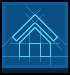
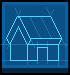
Add support for roof building materials, with one ugly, placeholder thatched roof material.

diff --git a/source/stonehearth_data/mods/stonehearth/ui/game/modes/build_mode/building_designer_2/building_designer_2.js b/source/stonehearth_data/mods/stonehearth/ui/game/modes/build_mode/building_designer_2/building_designer_2.js
@@ -63,7 +63,9 @@ App.StonehearthBuildingDesignerTools = App.View.extend({
       {
          category: 'Wooden Materials',
          items: [
-         ]         
+            { name: 'Wooden Roof',    portrait: '/stonehearth/entities/build/roof/wooden_peaked_roof/wooden_peaked_roof.png', brush: 'stonehearth:wooden_peaked_roof' },
+            { name: 'Thatch Roof',    portrait: '/stonehearth/entities/build/roof/thatch_peaked_roof/thatch_peaked_roof.png', brush: 'stonehearth:thatch_peaked_roof' },
+      ]
       }
    ],
 
@@ -167,6 +169,7 @@ App.StonehearthBuildingDesignerTools = App.View.extend({
       // build material palettes
       this.$('#floorToolTab').append(this._buildMaterialPalette(this.floorPatterns, 'floorMaterial'));
       this.$('#wallToolTab').append(this._buildMaterialPalette(this.wallPatterns, 'wallMaterial'));
+      this.$('.roofMaterialsContainer').append(this._buildMaterialPalette(this.roofPatterns, 'roofMaterial'));
       this.$('#doodadToolTab').append(this._buildMaterialPalette(this.doodads, 'doodadMaterial'));
 
       // tab buttons and pages
@@ -324,10 +327,37 @@ App.StonehearthBuildingDesignerTools = App.View.extend({
       })
 
       // roof tab
-      this.$('#growRoofTool').click(function() {
-         if($(this).hasClass('active')) {
-            App.stonehearthClient.growRoof();
+      var doGrowRoof = function() {
+         if(self.$('#growRoofTool').hasClass('active')) {
+            var roofUri = self.$('#roofToolTab .roofMaterial.selected').attr('brush');
+            App.stonehearthClient.growRoof(roofUri);
          }
+      }
+
+      this.$('#growRoofTool').click(function() {
+         doGrowRoof();
+      })
+
+      this.$('#roofToolTab .roofMaterial').click(function() {
+         // select the clicked material
+         self.$('#roofToolTab .roofMaterial').removeClass('selected');
+         $(this).addClass('selected');
+
+         self._state.roofMaterial = $(this).attr('index');
+         self._saveState();
+
+         // update the selected building part, if there is one
+         // XXX - ack, gotta fix this
+         /*
+         var roofUri = $(this).attr('brush');
+         var blueprint = self.get('blueprint');
+         if (blueprint) {
+            App.stonehearthClient.replaceStructure(blueprint, roofUri);
+         }
+         */
+
+         // reactivate the active tool with the new material. 
+         doGrowRoof();
       })
 
       this.$('#roofToolTab .roofNumericInput').change(function() {
@@ -418,6 +448,9 @@ App.StonehearthBuildingDesignerTools = App.View.extend({
             if (!self._state.wallMaterial) {
                self._state.wallMaterial = 0;
             }
+            if (!self._state.roofMaterial) {
+               self._state.roofMaterial = 0;
+            }
             if (!self._state.doodadMaterial) {
                self._state.doodadMaterial = 0;
             }
@@ -452,6 +485,7 @@ App.StonehearthBuildingDesignerTools = App.View.extend({
          // select default materials
          $(self.$('#floorToolTab .floorMaterial')[self._state.floorMaterial]).addClass('selected');
          $(self.$('#wallToolTab .wallMaterial')[self._state.wallMaterial]).addClass('selected');
+         $(self.$('#roofToolTab .roofMaterial')[self._state.roofMaterial]).addClass('selected');
          $(self.$('#doodadToolTab .doodadMaterial')[self._state.doodadMaterial]).addClass('selected');
 
          // most recently selected tab

diff --git a/source/stonehearth_data/mods/stonehearth/ui/game/modes/build_mode/building_designer_2/building_designer_2.html b/source/stonehearth_data/mods/stonehearth/ui/game/modes/build_mode/building_designer_2/building_designer_2.html
@@ -46,20 +46,8 @@
             <div id="growRoofTool" class="toolButton"></div>
          </div>
 
-         <h2>{{i18n stonehearth:building_designer_material}}</h2>
-         <div class="brushPalette section">
-            {{#each view.roofPatterns}}
-               <div>
-                  todo...roof options go here...
-                  {{#each items}}
-                     <a {{bind-attr name = "this.name"}}href="#" {{action selectRoofMaterial this target="view"}} class="brushLink">
-                        <img {{bind-attr src="this.portrait" title="this.name"}} />
-                     </a>
-                  {{/each}}
-               </div>
-               <div style="clear: both"></div>
-            {{/each}}
-         </div>
+         <!-- Material palette built dynamically and inserted here -->
+         <div class="roofMaterialsContainer"></div>
 
          {{render 'roofShape' this}}
       </div>

diff --git a/source/stonehearth_data/mods/stonehearth/ui/root/js/stonehearth/stonehearth_client.js b/source/stonehearth_data/mods/stonehearth/ui/root/js/stonehearth/stonehearth_client.js
@@ -278,12 +278,12 @@ var StonehearthClient;
          });
       },
 
-      growRoof: function() {
+      growRoof: function(roof) {
          var self = this;
 
          return this._callTool(function() {
             radiant.call('radiant:play_sound', 'stonehearth:sounds:place_structure' );
-            return radiant.call_obj(self._build_editor, 'grow_roof', 'stonehearth:wooden_peaked_roof');
+            return radiant.call_obj(self._build_editor, 'grow_roof', roof);
          });
       },
 
